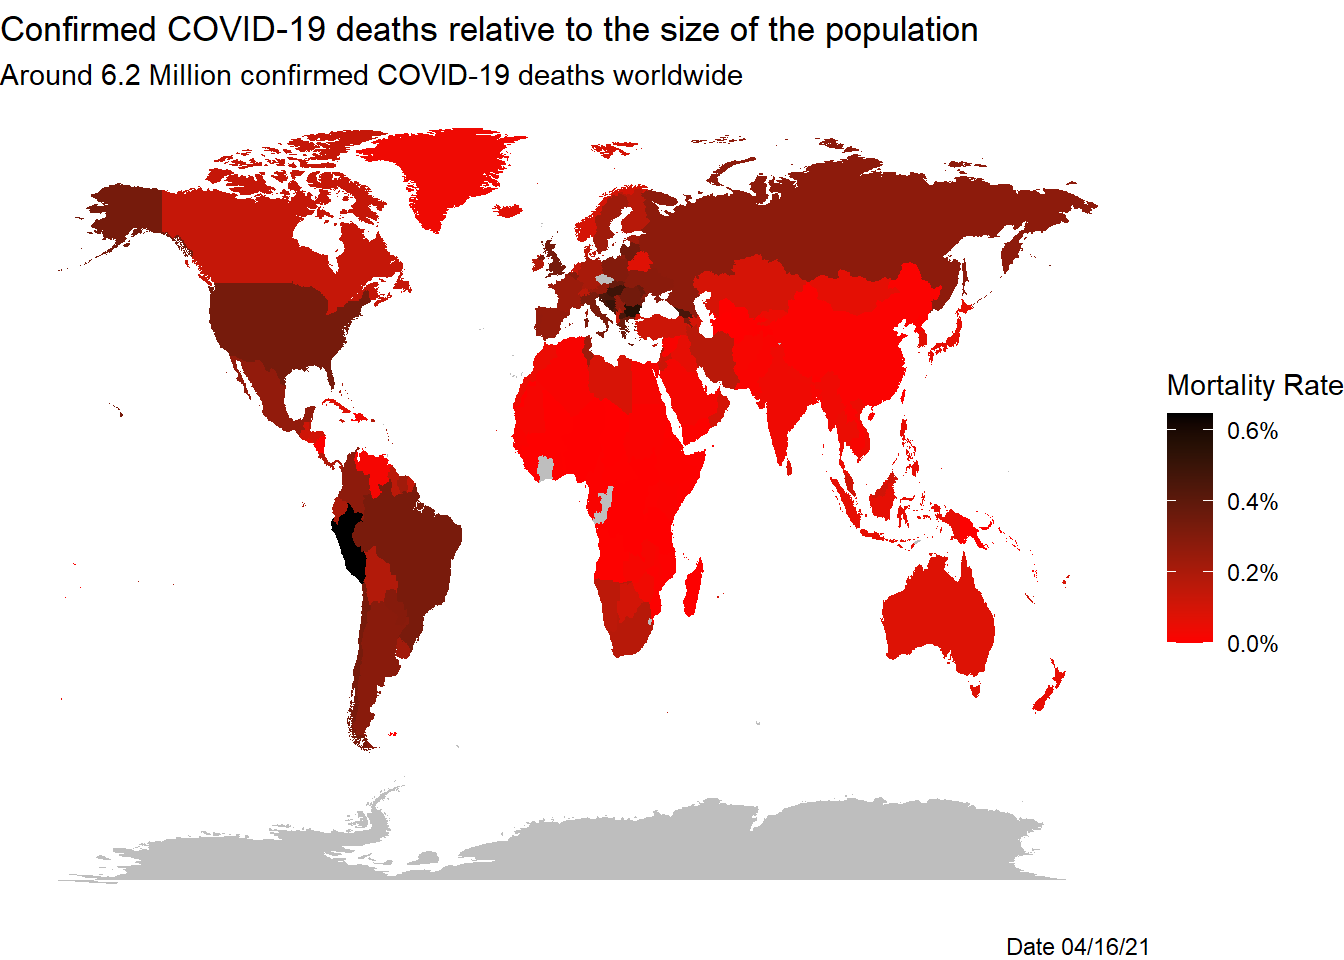
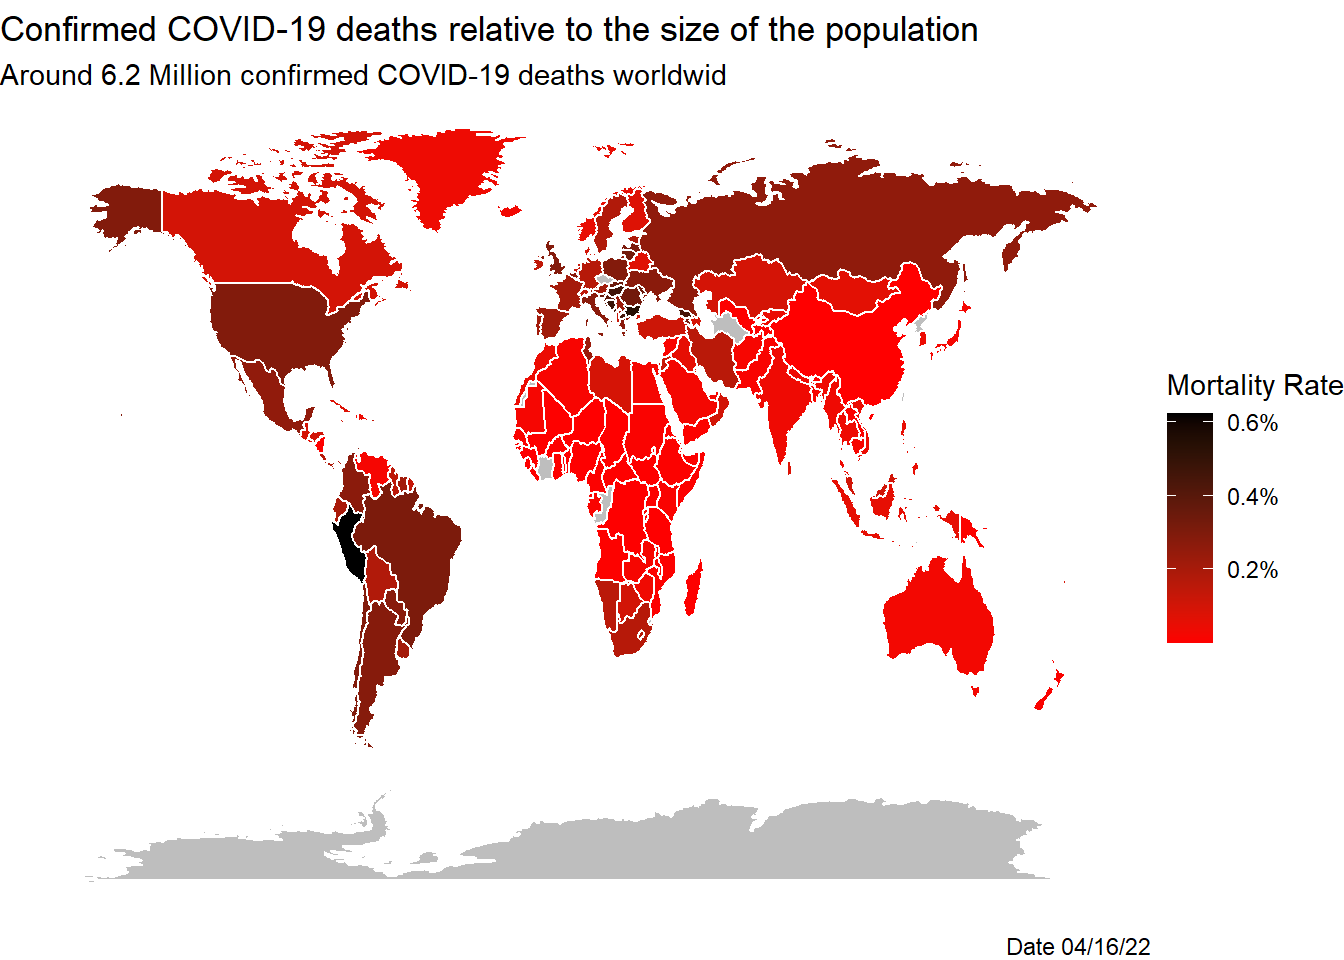
23

diff --git a/_site/content/01_journal/04_data_visualization.html b/_site/content/01_journal/04_data_visualization.html
@@ -292,38 +292,41 @@ Note
 </section></section><section id="challenge-1" class="level2" data-number="2"><h2 data-number="2" class="anchored" data-anchor-id="challenge-1">
 <span class="header-section-number">2</span> Challenge:</h2>
 <section id="visualization-of-the-distribution-of-the-mortality-rate." class="level3"><h3 class="anchored" data-anchor-id="visualization-of-the-distribution-of-the-mortality-rate.">Visualization of the distribution of the mortality rate.</h3>
-<div class="cell" data-hash="04_data_visualization_cache/html/unnamed-chunk-3_cf5199f43c02b1f1842a2c8f08739414">
+<div class="cell" data-hash="04_data_visualization_cache/html/unnamed-chunk-3_66b60f74415b7768c9effe56c3a91c0c">
 <div class="sourceCode cell-code" id="cb3"><pre class="sourceCode numberSource r number-lines code-with-copy"><code class="sourceCode r"><span id="cb3-1"><a href="#cb3-1"></a><span class="do">## data manipulation ----</span></span>
 <span id="cb3-2"><a href="#cb3-2"></a>world <span class="ot">&lt;-</span> <span class="fu">map_data</span>(<span class="st">"world"</span>) </span>
 <span id="cb3-3"><a href="#cb3-3"></a></span>
-<span id="cb3-4"><a href="#cb3-4"></a>mortality_rate <span class="ot">&lt;-</span> covid_data_tbl <span class="sc">%&gt;%</span> <span class="fu">select</span>(continent, location, new_deaths, population) <span class="sc">%&gt;%</span></span>
-<span id="cb3-5"><a href="#cb3-5"></a>  <span class="fu">mutate</span>(<span class="at">new_deaths =</span> <span class="fu">replace_na</span>(new_deaths, <span class="dv">0</span>)) <span class="sc">%&gt;%</span> <span class="fu">filter</span>(<span class="sc">!</span>(<span class="fu">is.na</span>(continent))) <span class="sc">%&gt;%</span></span>
-<span id="cb3-6"><a href="#cb3-6"></a>  <span class="fu">select</span>(<span class="dv">2</span><span class="sc">:</span><span class="dv">4</span>)</span>
-<span id="cb3-7"><a href="#cb3-7"></a>deaths_ratio <span class="ot">&lt;-</span> mortality_rate <span class="sc">%&gt;%</span> <span class="fu">group_by</span>(location) <span class="sc">%&gt;%</span></span>
-<span id="cb3-8"><a href="#cb3-8"></a>  <span class="fu">reframe</span>(<span class="at">deaths_per_population =</span> <span class="fu">sum</span>(new_deaths) <span class="sc">/</span> population) <span class="sc">%&gt;%</span></span>
-<span id="cb3-9"><a href="#cb3-9"></a>  <span class="fu">group_by</span>(location) <span class="sc">%&gt;%</span> <span class="fu">slice</span>(<span class="dv">1</span>) <span class="sc">%&gt;%</span> <span class="fu">ungroup</span>() <span class="sc">%&gt;%</span></span>
-<span id="cb3-10"><a href="#cb3-10"></a>  <span class="fu">set_names</span>(<span class="fu">c</span>(<span class="st">'country'</span>, <span class="st">'deaths_per_population'</span>)) <span class="sc">%&gt;%</span></span>
-<span id="cb3-11"><a href="#cb3-11"></a>  as.data.frame</span>
-<span id="cb3-12"><a href="#cb3-12"></a>deaths_ratio[<span class="st">'country'</span>][deaths_ratio[<span class="st">'country'</span>] <span class="sc">==</span> <span class="st">'United Kingdom'</span>] <span class="ot">&lt;-</span> <span class="st">'UK'</span></span>
-<span id="cb3-13"><a href="#cb3-13"></a>deaths_ratio[<span class="st">'country'</span>][deaths_ratio[<span class="st">'country'</span>] <span class="sc">==</span> <span class="st">'United States'</span>] <span class="ot">&lt;-</span> <span class="st">'USA'</span></span>
-<span id="cb3-14"><a href="#cb3-14"></a>deaths_ratio[<span class="st">'country'</span>][deaths_ratio[<span class="st">'country'</span>] <span class="sc">==</span> <span class="st">'Democratic Republic of Congo'</span>] <span class="ot">&lt;-</span></span>
-<span id="cb3-15"><a href="#cb3-15"></a>  <span class="st">'Democratic Republic of the Congo'</span></span>
-<span id="cb3-16"><a href="#cb3-16"></a></span>
-<span id="cb3-17"><a href="#cb3-17"></a>combined_data <span class="ot">&lt;-</span> <span class="fu">merge</span>(world, deaths_ratio, <span class="at">by.x =</span> <span class="st">"region"</span>, <span class="at">by.y =</span> <span class="st">"country"</span>, <span class="at">all.x =</span> <span class="cn">TRUE</span>)</span>
-<span id="cb3-18"><a href="#cb3-18"></a></span>
-<span id="cb3-19"><a href="#cb3-19"></a><span class="do">## ggplot ----</span></span>
-<span id="cb3-20"><a href="#cb3-20"></a><span class="fu">suppressWarnings</span>(<span class="fu">ggplot</span>() <span class="sc">+</span> <span class="fu">geom_map</span>(<span class="at">data =</span> combined_data, <span class="at">map =</span> world,</span>
-<span id="cb3-21"><a href="#cb3-21"></a>         <span class="fu">aes</span>(<span class="at">x =</span> long, <span class="at">y =</span> lat, <span class="at">map_id =</span> region, <span class="at">fill =</span> deaths_per_population)) <span class="sc">+</span></span>
-<span id="cb3-22"><a href="#cb3-22"></a>  <span class="fu">scale_fill_gradient</span>(<span class="at">low =</span> <span class="st">"red"</span>, <span class="at">high =</span> <span class="st">"black"</span>, <span class="at">na.value =</span> <span class="st">'gray'</span>,</span>
-<span id="cb3-23"><a href="#cb3-23"></a>                      <span class="at">labels =</span> scales<span class="sc">::</span><span class="fu">label_percent</span>()) <span class="sc">+</span></span>
-<span id="cb3-24"><a href="#cb3-24"></a>  <span class="fu">theme_void</span>() <span class="sc">+</span> </span>
-<span id="cb3-25"><a href="#cb3-25"></a>  <span class="fu">labs</span>(<span class="at">title =</span> <span class="st">"Confirmed COVID-19 deaths relative to the size of the population"</span>,</span>
-<span id="cb3-26"><a href="#cb3-26"></a>       <span class="at">subtitle =</span> <span class="st">"Around 6.2 Million confirmed COVID-19 deaths worldwide"</span>,</span>
-<span id="cb3-27"><a href="#cb3-27"></a>       <span class="at">caption =</span> <span class="st">"Date 04/16/21"</span>,</span>
-<span id="cb3-28"><a href="#cb3-28"></a>       <span class="at">x =</span> <span class="st">''</span>, <span class="at">y =</span> <span class="st">''</span>,</span>
-<span id="cb3-29"><a href="#cb3-29"></a>       <span class="at">fill =</span> <span class="st">"Mortality Rate"</span>) <span class="sc">+</span></span>
-<span id="cb3-30"><a href="#cb3-30"></a>  <span class="fu">scale_x_continuous</span>(<span class="at">breaks =</span> <span class="cn">NULL</span>) <span class="sc">+</span></span>
-<span id="cb3-31"><a href="#cb3-31"></a>  <span class="fu">scale_y_continuous</span>(<span class="at">breaks =</span> <span class="cn">NULL</span>))</span></code><button title="Copy to Clipboard" class="code-copy-button"><i class="bi"></i></button></pre></div>
+<span id="cb3-4"><a href="#cb3-4"></a>mortality_rate <span class="ot">&lt;-</span> covid_data_tbl <span class="sc">%&gt;%</span> <span class="fu">filter</span>(date <span class="sc">&lt;=</span> <span class="st">'2022-04-16'</span>) <span class="sc">%&gt;%</span></span>
+<span id="cb3-5"><a href="#cb3-5"></a>  <span class="fu">select</span>(continent, location, new_deaths, population) <span class="sc">%&gt;%</span></span>
+<span id="cb3-6"><a href="#cb3-6"></a>  <span class="fu">mutate</span>(<span class="at">new_deaths =</span> <span class="fu">replace_na</span>(new_deaths, <span class="dv">0</span>)) <span class="sc">%&gt;%</span> <span class="fu">filter</span>(<span class="sc">!</span>(<span class="fu">is.na</span>(continent))) <span class="sc">%&gt;%</span></span>
+<span id="cb3-7"><a href="#cb3-7"></a>  <span class="fu">select</span>(<span class="dv">2</span><span class="sc">:</span><span class="dv">4</span>)</span>
+<span id="cb3-8"><a href="#cb3-8"></a>total_death <span class="ot">&lt;-</span> <span class="fu">round</span>(<span class="fu">sum</span>(mortality_rate<span class="sc">$</span>new_deaths) <span class="sc">/</span> <span class="fl">1e6</span>, <span class="at">digits =</span> <span class="dv">1</span>)</span>
+<span id="cb3-9"><a href="#cb3-9"></a>deaths_ratio <span class="ot">&lt;-</span> mortality_rate <span class="sc">%&gt;%</span> <span class="fu">group_by</span>(location) <span class="sc">%&gt;%</span></span>
+<span id="cb3-10"><a href="#cb3-10"></a>  <span class="fu">reframe</span>(<span class="at">deaths_per_population =</span> <span class="fu">sum</span>(new_deaths) <span class="sc">/</span> population) <span class="sc">%&gt;%</span></span>
+<span id="cb3-11"><a href="#cb3-11"></a>  <span class="fu">group_by</span>(location) <span class="sc">%&gt;%</span> <span class="fu">slice</span>(<span class="dv">1</span>) <span class="sc">%&gt;%</span> <span class="fu">ungroup</span>() <span class="sc">%&gt;%</span></span>
+<span id="cb3-12"><a href="#cb3-12"></a>  <span class="fu">set_names</span>(<span class="fu">c</span>(<span class="st">'country'</span>, <span class="st">'deaths_per_population'</span>)) <span class="sc">%&gt;%</span></span>
+<span id="cb3-13"><a href="#cb3-13"></a>  as.data.frame</span>
+<span id="cb3-14"><a href="#cb3-14"></a>deaths_ratio[<span class="st">'deaths_per_population'</span>][deaths_ratio[<span class="st">'deaths_per_population'</span>] <span class="sc">==</span> <span class="dv">0</span>] <span class="ot">&lt;-</span> <span class="cn">NA</span></span>
+<span id="cb3-15"><a href="#cb3-15"></a>deaths_ratio[<span class="st">'country'</span>][deaths_ratio[<span class="st">'country'</span>] <span class="sc">==</span> <span class="st">'United Kingdom'</span>] <span class="ot">&lt;-</span> <span class="st">'UK'</span></span>
+<span id="cb3-16"><a href="#cb3-16"></a>deaths_ratio[<span class="st">'country'</span>][deaths_ratio[<span class="st">'country'</span>] <span class="sc">==</span> <span class="st">'United States'</span>] <span class="ot">&lt;-</span> <span class="st">'USA'</span></span>
+<span id="cb3-17"><a href="#cb3-17"></a>deaths_ratio[<span class="st">'country'</span>][deaths_ratio[<span class="st">'country'</span>] <span class="sc">==</span> <span class="st">'Democratic Republic of Congo'</span>] <span class="ot">&lt;-</span></span>
+<span id="cb3-18"><a href="#cb3-18"></a>  <span class="st">'Democratic Republic of the Congo'</span></span>
+<span id="cb3-19"><a href="#cb3-19"></a></span>
+<span id="cb3-20"><a href="#cb3-20"></a>combined_data <span class="ot">&lt;-</span> <span class="fu">merge</span>(world, deaths_ratio, <span class="at">by.x =</span> <span class="st">"region"</span>, <span class="at">by.y =</span> <span class="st">"country"</span>, <span class="at">all.x =</span> <span class="cn">TRUE</span>)</span>
+<span id="cb3-21"><a href="#cb3-21"></a></span>
+<span id="cb3-22"><a href="#cb3-22"></a><span class="do">## ggplot ----</span></span>
+<span id="cb3-23"><a href="#cb3-23"></a><span class="fu">suppressWarnings</span>(<span class="fu">ggplot</span>() <span class="sc">+</span> <span class="fu">geom_map</span>(<span class="at">data =</span> combined_data, <span class="at">map =</span> world, <span class="at">color =</span> <span class="st">'white'</span>,</span>
+<span id="cb3-24"><a href="#cb3-24"></a>         <span class="fu">aes</span>(<span class="at">x =</span> long, <span class="at">y =</span> lat, <span class="at">map_id =</span> region, <span class="at">fill =</span> deaths_per_population)) <span class="sc">+</span></span>
+<span id="cb3-25"><a href="#cb3-25"></a>  <span class="fu">scale_fill_gradient</span>(<span class="at">low =</span> <span class="st">"red"</span>, <span class="at">high =</span> <span class="st">"black"</span>, <span class="at">na.value =</span> <span class="st">'gray'</span>,</span>
+<span id="cb3-26"><a href="#cb3-26"></a>                      <span class="at">labels =</span> scales<span class="sc">::</span><span class="fu">label_percent</span>()) <span class="sc">+</span></span>
+<span id="cb3-27"><a href="#cb3-27"></a>  <span class="fu">theme_void</span>() <span class="sc">+</span> </span>
+<span id="cb3-28"><a href="#cb3-28"></a>  <span class="fu">labs</span>(<span class="at">title =</span> <span class="st">"Confirmed COVID-19 deaths relative to the size of the population"</span>,</span>
+<span id="cb3-29"><a href="#cb3-29"></a>       <span class="at">subtitle =</span>  <span class="fu">str_glue</span>(<span class="st">"Around {total_death} Million confirmed COVID-19 deaths worldwid"</span>),</span>
+<span id="cb3-30"><a href="#cb3-30"></a>       <span class="at">caption =</span> <span class="st">"Date 04/16/22"</span>,</span>
+<span id="cb3-31"><a href="#cb3-31"></a>       <span class="at">x =</span> <span class="st">''</span>, <span class="at">y =</span> <span class="st">''</span>,</span>
+<span id="cb3-32"><a href="#cb3-32"></a>       <span class="at">fill =</span> <span class="st">"Mortality Rate"</span>) <span class="sc">+</span></span>
+<span id="cb3-33"><a href="#cb3-33"></a>  <span class="fu">scale_x_continuous</span>(<span class="at">breaks =</span> <span class="cn">NULL</span>) <span class="sc">+</span></span>
+<span id="cb3-34"><a href="#cb3-34"></a>  <span class="fu">scale_y_continuous</span>(<span class="at">breaks =</span> <span class="cn">NULL</span>))</span></code><button title="Copy to Clipboard" class="code-copy-button"><i class="bi"></i></button></pre></div>
 <div class="cell-output-display">
 <div class="quarto-figure quarto-figure-center">
 <figure class="figure"><p><a href="04_data_visualization_files/figure-html/unnamed-chunk-3-1.png" class="lightbox" data-gallery="quarto-lightbox-gallery-2"><img src="04_data_visualization_files/figure-html/unnamed-chunk-3-1.png" class="img-fluid figure-img" width="672"></a></p>
@@ -682,7 +685,7 @@ window.document.addEventListener("DOMContentLoaded", function (event) {
 });
 </script>
 </div> <!-- /content -->
-<script>var lightboxQuarto = GLightbox({"closeEffect":"zoom","loop":true,"selector":".lightbox","descPosition":"bottom","openEffect":"zoom"});</script>
+<script>var lightboxQuarto = GLightbox({"selector":".lightbox","closeEffect":"zoom","loop":true,"descPosition":"bottom","openEffect":"zoom"});</script>
 
 
 </body></html>
